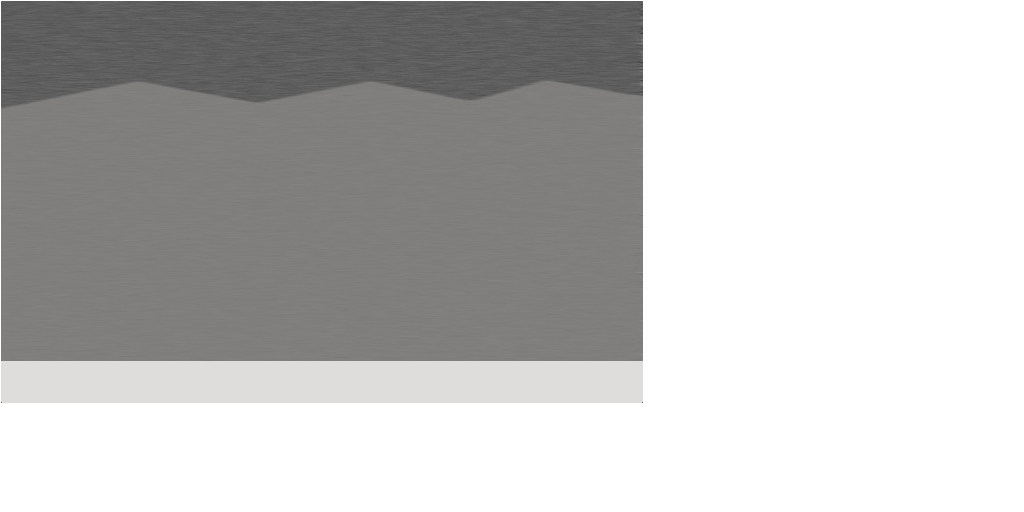
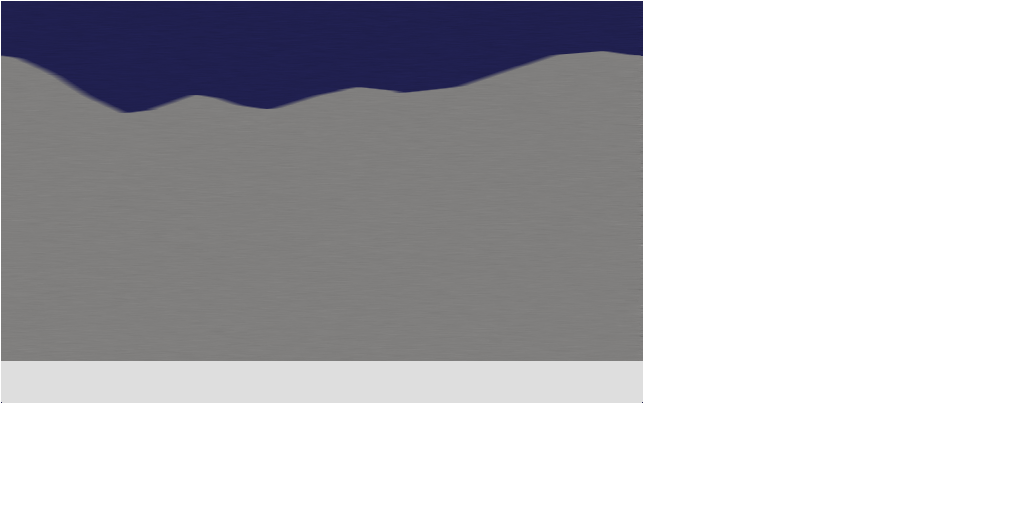
background scrolls, and she jumps

Changed region(s): [[0.0, 0.0, 0.625, 0.2188]]

diff --git a/core/src/com/mygdx/gopez/MainGame.java b/core/src/com/mygdx/gopez/MainGame.java
@@ -18,13 +18,22 @@ import com.badlogic.gdx.utils.Array;
 public class MainGame extends ApplicationAdapter implements GestureDetector.GestureListener {
 	SpriteBatch batch;
 	Texture img;
-	Texture bk;
+	int bk1;
+	int bk2;
 	private AssetManager assets;
 	private TextureAtlas atlas;
 	private TextureAtlas bkAtlas;
 	private float elapsed;
 	OrthographicCamera camera;
 	Animation animation;
+
+	//Physics variables
+	float gpz_v;
+	float gravity = 1;
+	float gpz_y;
+	float ground_y;
+	boolean jumping;
+
 
 	@Override
 	public void create () {
@@ -33,17 +42,21 @@ public class MainGame extends ApplicationAdapter implements GestureDetector.Gest
 		img = new Texture("gpz_run1.png");
 		assets = new AssetManager();
 		assets.load("gpzrun.pack", TextureAtlas.class);
-		assets.load("gpz_bkg.pack", TextureAtlas.class);
+		assets.load("gpz_bk.pack", TextureAtlas.class);
 		assets.finishLoading();
 
-		bkAtlas = assets.get("gpz_bkg.pack");
+		bkAtlas = assets.get("gpz_bk.pack");
 
 		camera = new OrthographicCamera(Gdx.graphics.getWidth(),Gdx.graphics.getHeight());
 		atlas = assets.get("gpzrun.pack");
 		Array<TextureAtlas.AtlasRegion> runAnimations = atlas.getRegions();
-		Array<TextureAtlas.AtlasRegion> background = bkAtlas.getRegions();
 		runAnimations.reverse();
 		animation = new Animation(1f/8f,runAnimations);
+		bk1 = -Gdx.graphics.getWidth()/2;
+
+		gpz_v = 0;
+		ground_y = (-Gdx.graphics.getHeight()/2) + 260;
+		gpz_y = ground_y;
 
 	}
 
@@ -56,32 +69,57 @@ public class MainGame extends ApplicationAdapter implements GestureDetector.Gest
 
 		batch.begin();
 		TextureRegion keyframe = animation.getKeyFrame(elapsed, true);
-		batch.draw(bkAtlas.getRegions().get(0),-Gdx.graphics.getWidth()/2,-Gdx.graphics.getHeight()/2,Gdx.graphics.getWidth(),Gdx.graphics.getHeight());
-		batch.draw(keyframe,(-Gdx.graphics.getWidth()/2) + 50,(-Gdx.graphics.getHeight()/2) + 260, 240, 372);
+		float newWidth = ((float)Gdx.graphics.getHeight()/2)/((float) bkAtlas.getRegions().get(0).originalHeight) * (bkAtlas.getRegions().get(0).originalWidth);
+
+		batch.draw(bkAtlas.getRegions().get(0),bk1,-Gdx.graphics.getHeight()/2, newWidth,Gdx.graphics.getHeight());
+
+		int leftEdge = (-Gdx.graphics.getWidth()/2) - bkAtlas.getRegions().get(0).originalWidth;
+
+		if(bk1 + newWidth < ((Gdx.graphics.getWidth()/2))) {
+			batch.draw(bkAtlas.getRegions().get(0),bk1 + newWidth,-Gdx.graphics.getHeight()/2,newWidth,Gdx.graphics.getHeight());
+		} else if (bk1 + newWidth > (Gdx.graphics.getWidth()/2)) {
+			batch.draw(bkAtlas.getRegions().get(0),bk1 - newWidth,-Gdx.graphics.getHeight()/2,newWidth,Gdx.graphics.getHeight());
+		}
+
+		//if (bk1 < ((-Gdx.graphics.getWidth()/2) - ))
+
+		if (jumping = true) {
+			gpz_y += gpz_v;
+			gpz_v = gpz_v - gravity;
+		}
+
+		if (gpz_y <= ground_y) {
+			gpz_v = 0;
+			gpz_y = ground_y;
+			jumping = false;
+		}
+		if (jumping){
+			batch.draw(atlas.getRegions().get(4), (-Gdx.graphics.getWidth() / 2) + 50, gpz_y, 240, 372);
+
+		} else {
+			batch.draw(keyframe, (-Gdx.graphics.getWidth() / 2) + 50, gpz_y, 240, 372);
+		}
 		batch.end();
+		bk1-=10;
+
+		if (Math.abs(bk1) > (Gdx.graphics.getWidth()/2) + newWidth){
+			bk1 = -Gdx.graphics.getWidth()/2;
+		}
 	}
+
 
 	@Override
 	public boolean touchDown(float x, float y, int pointer, int button) {
-		if (x < Gdx.graphics.getWidth()/2) {
-			for (TextureRegion t : animation.getKeyFrames()) {
-				if (!t.isFlipX())
-					t.flip(true, false);
-
-			}
-		} else {
-			for (TextureRegion t : animation.getKeyFrames()) {
-				if (t.isFlipX())
-					t.flip(true, false);
-
-			}
+		if (!jumping) {
+			gpz_v = 30;
+			jumping = true;
 		}
 		return false;
 	}
 
 	@Override
 	public boolean tap(float x, float y, int count, int button) {
-
+		Gdx.app.log("tap", "x=" + x + "y=" + y);
 		return false;
 	}
 
